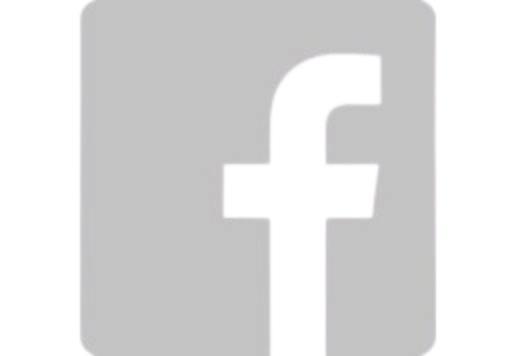
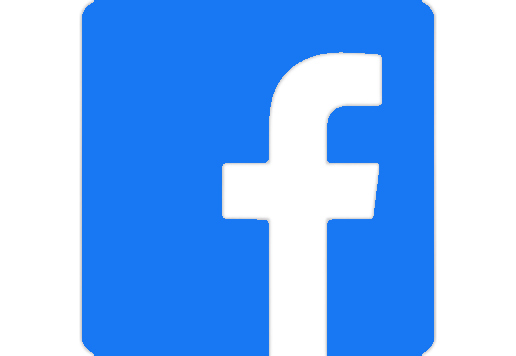
add socials

diff --git a/bootstrap/blog-post/js/scripts.js b/bootstrap/blog-post/js/scripts.js
@@ -35,6 +35,36 @@ function toc() {
     });
 }
 
+function addShares() {
+  const cont = document.createElement("div");
+  cont.className = "row";
+  cont.style.marginTop = '10px';
+  cont.style.width= "20%";
+  const row1 = document.createElement("div");
+  row1.className = "col-lg-4";
+  const row2 = document.createElement("div");
+  row2.className = "col-lg-4";
+  cont.appendChild(row1);
+  cont.appendChild(row2);
+
+  const fb = document.createElement("div");
+  fb.innerHTML = '<div class="fb-share-button" data-href="' + window.location.href + '" data-layout="" data-size="small"><a target="_blank" href="https://www.facebook.com/sharer/sharer.php?u='+ window.location.href +'&amp;src=sdkpreparse" class="fb-xfbml-parse-ignore"><img style="margin: 0; height: 35px;" src="src/facebook-icon.png" ></a></div>';
+
+  const x = document.createElement("div");
+  x.innerHTML = '<a href="https://twitter.com/intent/tweet?url=' + window.location.href + '" target="_blank" rel="noopener noreferrer"><img style="height: 35px;" src="src/x-icon.png" ></a>'
+
+  row1.appendChild(fb);
+  row2.appendChild(x);
+
+  headingThing = document.getElementsByTagName("header")[0];
+  document.getElementsByTagName("header")[0].insertBefore(cont, headingThing.children[-1]);
+  const bodyCotent = document.createElement("div");
+  bodyCotent.innerHTML = '<div id="fb-root"></div><script async defer crossorigin="anonymous" src="https://connect.facebook.net/en_US/sdk.js#xfbml=1&version=v23.0"></script>';
+  document.body.prepend(bodyCotent);
+}
+
+addShares();
+
 if (window.innerWidth <= 991) {
     toc();
 } else {

diff --git a/logic-gates.html b/logic-gates.html
@@ -91,7 +91,6 @@
                             <h1 class="fw-bolder mb-1">Beginner's Tutorial to Logic Gates Basics: Types, Truth Tables, and Symbols</h1>
                             <!-- Post meta content-->
                             <div class="text-muted fst-italic mb-2">Posted on May 29, 2025 by Boden Bensema</div>
-                            <!-- Post categories-->
                             <a class="badge bg-secondary text-decoration-none link-light" href="#!">Concept</a>
                             <a class="badge bg-secondary text-decoration-none link-light" href="#!">Digital Logic</a>
                             <a class="badge bg-secondary text-decoration-none link-light" href="#!">Logic Gates</a>
